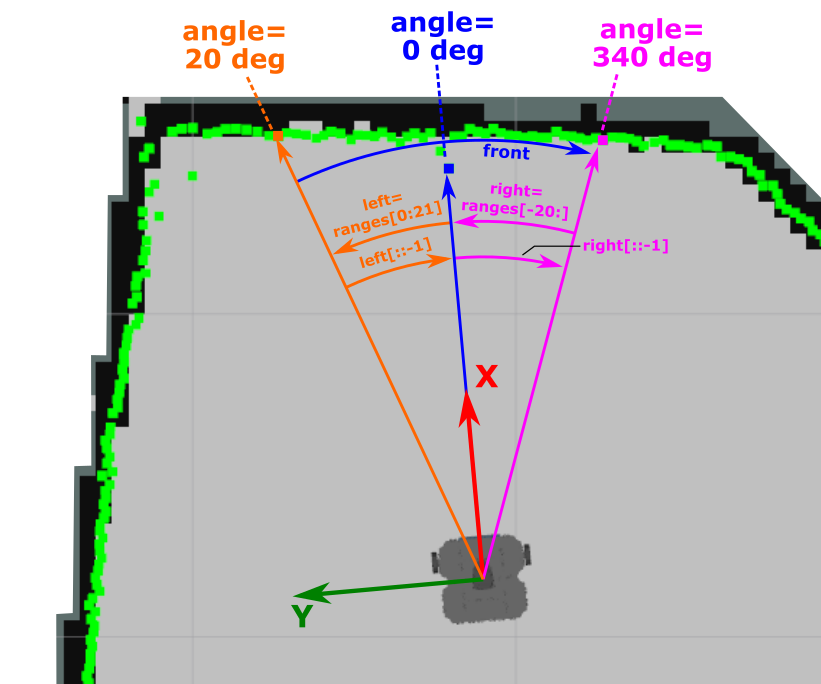
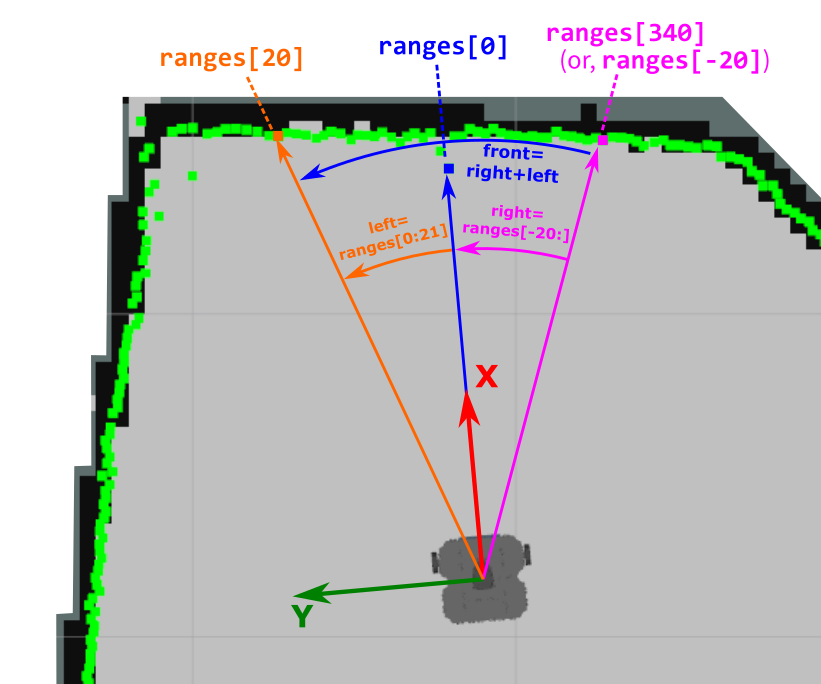
tweak lidar data processing

diff --git a/code_templates/lidar_subscriber.py b/code_templates/lidar_subscriber.py
@@ -25,7 +25,7 @@ class LidarSubscriber(Node):
     def lidar_callback(self, scan_data: LaserScan): 
         left = scan_data.ranges[0:21] 
         right = scan_data.ranges[-20:] # (5)!
-        front = np.array(left[::-1] + right[::-1]) # (6)!
+        front = np.array(right + left) # (6)!
         
         valid_data = front[front != float("inf")] # (7)!
         if np.shape(valid_data)[0] > 0: # (8)!

diff --git a/docs/com2009/assignment1/part3.md b/docs/com2009/assignment1/part3.md
@@ -82,9 +82,9 @@ source ~/.bashrc
 
 ## Laser Displacement Data and The LiDAR Sensor {#lidar}
 
-As you'll know from Part 2, odometry is really important for robot navigation, but it can be subject to drift and accumulated error over time. You may have observed this in simulation during [Part 2 Exercise 5](./part2.md#ex5), and you would most certainly notice it if you were to do the same on a real robot. Fortunately, our robots have another sensor on-board which provides even richer information about the environment, and we can use this to supplement the odometry information and enhance the robot's navigation capabilities.
+As you'll know from Part 2, odometry is really important for robot navigation, but it can be subject to drift and accumulated error over time. You may have observed this in simulation during [Part 2 Exercise 5](./part2.md#ex5), and you would most certainly notice it if you were to do the same on a real robot. Fortunately, The Waffles have another sensor on-board which provides even richer information about the environment, and we can use this to supplement the odometry information and enhance the robot's navigation capabilities.
 
-#### :material-pen: Exercise 1: Using RViz to Visualise Robot Data {#ex1}
+#### :material-pen: Exercise 1: Using RViz to Visualise LaserScan Data {#ex1}
 
 <a name="rviz"></a>We're now going to place the robot in a more interesting environment than the "empty world" we've used in the previous parts of this course so far...
 
@@ -193,7 +193,7 @@ The `LaserScan` interface is a standardised ROS message interface (from the `sen
   ![](../../images/rviz/lidar_illustrated.png)
 </figure>
 
-<a name="echo_scan_variables"></a>As illustrated in the figure, we can associate each data-point of the `ranges` array to an *angular position* by using the `angle_min`, `angle_max` and `angle_increment` values that are also provided within the `LaserScan` message.  We can use the `ros2 topic echo` command to drill down into these elements of the message specifically and find out what their values are:
+<a name="echo_scan_variables"></a>As illustrated in the figure, we can associate each data-point of the `ranges` array to an *angular position* by using the `angle_min`, `angle_max` and `angle_increment` values that are also provided within the `LaserScan` message.  We can use the `ros2 topic echo` command to find out what their values are:
 
 ```{ .txt .no-copy }
 $ ros2 topic echo /scan --field angle_min --once
@@ -215,9 +215,9 @@ $ ros2 topic echo /scan --field angle_increment --once
     * What do these values represent? (Compare them with [the figure above](#fig_lidar))
 
 !!! tip 
-    Notice how we were able to access *specific variables* within the `/scan` data using the `--field` flag and as the command to only provide us with a single message by using `--once`?
+    Notice how we were able to access *specific variables* within the `/scan` data using the `--field` flag, and ask the command to only provide us with a single message by using `--once`?
 
-The `ranges` array contains 360 values in total, i.e. a distance measurement at every 1&deg; (an `angle_increment` of 0.0175 radians) around the robot. The first value in the `ranges` array (`ranges[0]`) is the distance to the nearest object directly in front of the robot (i.e. at &theta; = 0 radians, or `angle_min`). The last value in the `ranges` array (`ranges[359]`) is the distance to the nearest object at 359&deg; (i.e. &theta; = 6.283 radians, or `angle_max`) from the front of the robot. `ranges[65]`, for example, would represent the distance to the closest object at an angle of 65&deg; (1.138 radians) from the front of the robot (anti-clockwise), as shown in [the figure](#fig_lidar).
+The `ranges` array contains 360 values in total, i.e. a distance measurement at every 1&deg; (an `angle_increment` of 0.0175 radians) around the robot. The first value in the `ranges` array (`ranges[0]`) is the distance to the nearest object directly in front of the robot (i.e. at &theta; = 0 radians, or `angle_min`). The last value in the `ranges` array (`ranges[359]`) is the distance to the nearest object at 359&deg; (i.e. &theta; = 6.283 radians, or `angle_max`) from the front of the robot, i.e.: 1 degree to the *right* of the X-axis. `ranges[65]`, for example, would represent the distance to the closest object at an angle of 65&deg; (1.138 radians) from the front of the robot (*anti-clockwise*), as shown in [the figure](#fig_lidar).
 
 <a name="range_max_min"></a>The `LaserScan` message also contains the parameters `range_min` and `range_max`, which represent the *minimum* and *maximum* distance (in meters) that the LiDAR sensor can detect, respectively. Use the `ros2 topic echo` command to report these directly too.  
 
@@ -265,16 +265,16 @@ We'll need to create a new package again, so let's do this first (in **TERMINAL 
     cd ~/ros2_ws/src/tuos_ros/
     ```
 
-1. Use the `create_pkg.sh` helper script to create a new package called `part3_lidar`:
+1. Use the `create_pkg.sh` helper script to create a new package called `part3_lidar_etc`:
 
     ```bash
-    ./create_pkg.sh part3_lidar
+    ./create_pkg.sh part3_lidar_etc
     ```
 
 1. Then navigate into the `scripts` folder of the new package using the `cd` command again:
 
     ```bash
-    cd ../part3_lidar/scripts/
+    cd ../part3_lidar_etc/scripts/
     ```
 
 1. This will once again be a subscriber node at it's core, building on the same basic structure that we've used for similar nodes in Parts 1 and 2. 
@@ -312,7 +312,7 @@ We'll need to create a new package again, so let's do this first (in **TERMINAL 
 1. Head back to the terminal and use Colcon to build this new package, along with the `lidar_subscriber.py` node (even though it's still just an empty file at this stage):
 
     ```bash
-    cd ~/ros2_ws/ && colcon build --packages-select part3_lidar --symlink-install
+    cd ~/ros2_ws/ && colcon build --packages-select part3_lidar_etc --symlink-install
     ```
 
     And after that, re-source your `.bashrc`:
@@ -326,10 +326,10 @@ We'll need to create a new package again, so let's do this first (in **TERMINAL 
 1. Once you're happy with what's going on with this, run the node using `ros2 run`:
 
     ```bash
-    ros2 run part3_lidar lidar_subscriber.py
+    ros2 run part3_lidar_etc lidar_subscriber.py
     ```
 
-1. Open another terminal (but so you can still the outputs from your `lidar_subscriber.py` node). Launch the `teleop_keyboard` node, and drive the robot around, noting how theoutput fomr your `lidar_subscriber.py` node changes as you do so.
+1. Open another terminal (but so you can still the outputs from your `lidar_subscriber.py` node). Launch the `teleop_keyboard` node, and drive the robot around, noting how the output from your `lidar_subscriber.py` node changes as you do so.
 
 1. Close everything down now (including the simulation running in **TERMINAL 1**). Then (in **TERMINAL 1**) launch the "empty world" simulation again:
 
@@ -345,13 +345,25 @@ We'll need to create a new package again, so let's do this first (in **TERMINAL 
     ***
     **TERMINAL 2:**
     ```bash
-    ros2 run part3_lidar lidar_subscriber.py
+    ros2 run part3_lidar_etc lidar_subscriber.py
     ```
     ***
 
     What output do you see from this now?
 
-#### :material-pen: Exercise 3: Manipulating the Environment in Gazebo {#ex3}
+#### :material-pen: Exercise 3: Enhancing the LaserScan Callback {#ex3}
+
+In the previous exercise we performed some processing on the LiDAR `ranges` array, specifically:
+
+1. Grab 40 data points to represent all distance readings from a 40&deg; arc ahead of the robot
+1. Remove any "out-of-range" values (`inf`)
+1. Return the average value from the data points that remain.
+
+As such, we've condensed a LiDAR array subset of 40 data points into a *single* point to represent (approximately) how far away an object is ahead of our robot. 
+
+We could take this approach with other subsets of the `ranges` array too, to observe what's happening in different points around the robot, while still maintaining a manageable number of data points to monitor overall.
+
+Consider the following ...
 
 We can modify this "Empty World" environment with some basic objects, and we can move these around to further investigate how the `lidar_subscriber.py` outputs change under different conditions. 
 

diff --git a/docs/com2009/assignment1/part3/lidar_subscriber.md b/docs/com2009/assignment1/part3/lidar_subscriber.md
@@ -14,7 +14,7 @@ Copy **all** the code below into your `lidar_subscriber.py` file and then **revi
 4. We construct a subscriber in much the same way as we have done in Parts 1 and 2, this time targetting the `/scan` topic though.
 5. From the front of the robot, we obtain a 20&deg; arc of scan data either side of the x-axis (see the figure below).
 
-6. Then, we combine the `left` and `right` data arrays, flip them so that the data is arranged from left to right, and then convert this to a `numpy` array (see the figure below).
+6. Then, we combine the `left` and `right` data arrays, and convert this from a Python list to a `numpy` array (see the figure below).
 
 7. This illustrates one of the great features of `numpy` arrays: we can filter them.
 
